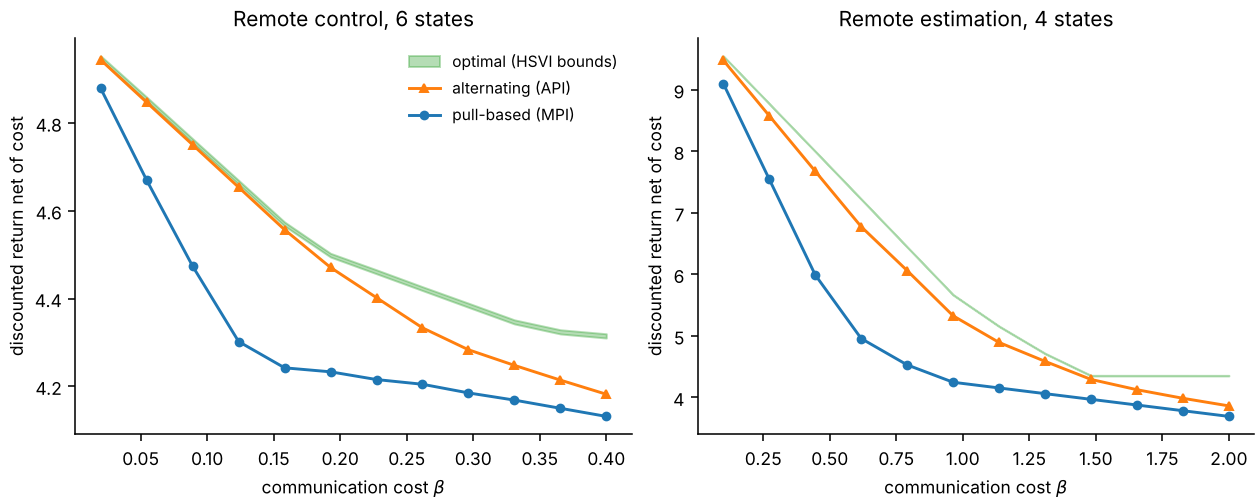
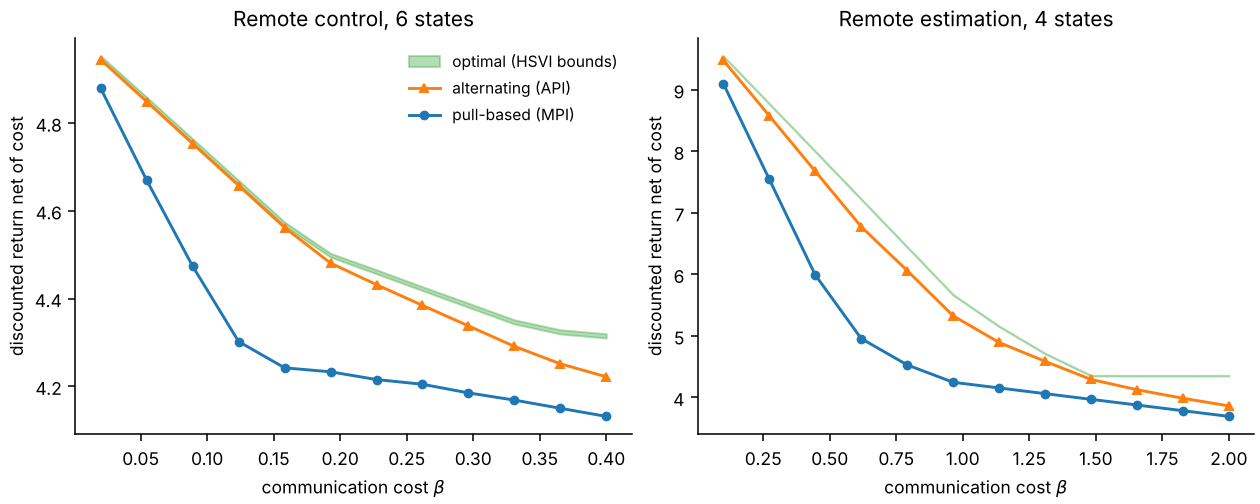
Make the alternating decoder step an exact best response in control
Against a fixed encoder the decoder's problem is an MDP over (delta, last
state) only when its actions do not move the process. In control the belief
depends on the actions taken since the last update, so greedy policy iteration
over (delta, last state) can stop at a worse policy. Search action sequences
exhaustively instead, keeping the greedy step as a fallback for large problems,
and check the best response against an independent exhaustive search.

Claude-Session: https://claude.ai/code/session_01Nqvqzyue5i7Uve9ngMVdXF

diff --git a/src/pragmatic_rc/push.py b/src/pragmatic_rc/push.py
@@ -110,9 +110,21 @@ def _improve_decoder(mdp: MDP, policy: PushPolicy, v0: np.ndarray, beta: float, 
     return new
 
 
-def decoder_best_response(
+MAX_EXACT_PLANS = 20_000
+
+
+def _dynamics_ignore_actions(mdp: MDP) -> bool:
+    return bool(np.allclose(mdp.P, mdp.P[:1]))
+
+
+def _decoder_best_response_local(
     mdp: MDP, pi_d: np.ndarray, c: np.ndarray, beta: float, t_max: int, max_iter: int = 500
 ) -> np.ndarray:
+    """Greedy policy iteration over ``(delta, last state)``.
+
+    Exact when the dynamics do not depend on the decoder's action (remote
+    estimation). Otherwise it can stop at a local optimum.
+    """
     pi_d = pi_d.copy()
     for _ in range(max_iter):
         policy = PushPolicy(pi_d, c)
@@ -122,6 +134,86 @@ def decoder_best_response(
             return pi_d
         pi_d = new
     raise RuntimeError("decoder best response did not converge")
+
+
+def _decoder_best_response_exact(
+    mdp: MDP, pi_d: np.ndarray, c: np.ndarray, beta: float, t_max: int, tol: float = 1e-12
+) -> np.ndarray:
+    """Exhaustive search over the decoder's action sequences after each update.
+
+    With a fixed encoder, what the decoder knows ``delta`` steps after receiving
+    ``l`` is fully determined by ``(delta, l)``, but its belief also depends on
+    the actions it took in between. The problem is therefore a search over
+    action sequences, not a Markov decision process on ``(delta, l)``. Sequences
+    are expanded as a tree so that shared prefixes are computed once; the cost
+    is ``A ** t_max`` sequences per last state.
+    """
+    S, A, g = mdp.n_states, mdp.n_actions, mdp.gamma
+    u = np.eye(S)[:, None, :]  # (l, sequences, x): unnormalised belief
+    gain = np.zeros((S, 1))  # reward minus transmission cost
+    mass = np.zeros((S, 1, S))  # discounted probability of the next renewal state
+    seqs = np.zeros((1, 0), dtype=int)
+    for k in range(t_max):
+        parts = []
+        for a in range(A):
+            moved = u @ mdp.P[a]
+            tx = moved * c[k + 1][:, None, :]
+            parts.append(
+                (
+                    gain + g**k * (u @ mdp.Rbar[a]) - beta * g ** (k + 1) * tx.sum(axis=2),
+                    mass + g ** (k + 1) * tx,
+                    moved * (1 - c[k + 1][:, None, :]),
+                    np.hstack([seqs, np.full((len(seqs), 1), a)]),
+                )
+            )
+        gain = np.concatenate([p[0] for p in parts], axis=1)
+        mass = np.concatenate([p[1] for p in parts], axis=1)
+        u = np.concatenate([p[2] for p in parts], axis=1)
+        seqs = np.concatenate([p[3] for p in parts], axis=0)
+
+    v = np.zeros(S)
+    while True:
+        new = (gain + mass @ v).max(axis=1)
+        if np.max(np.abs(new - v)) < tol:
+            break
+        v = new
+    q = gain + mass @ v  # (l, sequences)
+    weights = A ** np.arange(t_max)
+    old_index = (pi_d.T * weights).sum(axis=1)  # position of the current plan, a-major order
+    out = pi_d.copy()
+    for l in range(S):
+        if q[l, old_index[l]] >= q[l].max() - 1e-10:
+            continue  # keep the current plan on ties so that API terminates
+        out[:, l] = seqs[int(np.argmax(q[l]))]
+    return out
+
+
+def decoder_best_response(
+    mdp: MDP,
+    pi_d: np.ndarray,
+    c: np.ndarray,
+    beta: float,
+    t_max: int,
+    exact: bool | None = None,
+) -> np.ndarray:
+    """Optimal decoder policy against a fixed encoder.
+
+    ``exact=None`` picks automatically. When the dynamics do not depend on the
+    action (remote estimation) greedy policy iteration is exact. Otherwise the
+    best response requires searching action sequences, which is done
+    exhaustively while ``A ** t_max`` is at most ``MAX_EXACT_PLANS``. Beyond
+    that the greedy fallback is used and the result may be a local optimum.
+    """
+    if exact is None:
+        if _dynamics_ignore_actions(mdp):
+            exact = False
+        elif mdp.n_actions**t_max <= MAX_EXACT_PLANS:
+            exact = True
+        else:
+            exact = False  # local fallback, no guarantee
+    if exact:
+        return _decoder_best_response_exact(mdp, pi_d, c, beta, t_max)
+    return _decoder_best_response_local(mdp, pi_d, c, beta, t_max)
 
 
 def encoder_best_response(
@@ -164,13 +256,20 @@ def api(
     c_init: np.ndarray,
     rng: np.random.Generator | None = None,
     max_iter: int = 500,
+    exact: bool | None = None,
 ) -> tuple[PushPolicy, Evaluation]:
-    """Alternating policy iteration from an initial encoder policy."""
+    """Alternating policy iteration from an initial encoder policy.
+
+    The encoder step is exact. The decoder step is exact for remote estimation
+    and, for control, whenever ``A ** t_max`` is small enough to search action
+    sequences exhaustively (see :func:`decoder_best_response`). Where it is,
+    a fixed point is a Nash equilibrium.
+    """
     rng = rng or np.random.default_rng(0)
     pi_d = rng.integers(0, mdp.n_actions, size=(t_max, mdp.n_states))
     c = c_init.copy()
     for _ in range(max_iter):
-        new_pi_d = decoder_best_response(mdp, pi_d, c, beta, t_max)
+        new_pi_d = decoder_best_response(mdp, pi_d, c, beta, t_max, exact)
         new_c = encoder_best_response(mdp, new_pi_d, c, beta, t_max)
         if np.array_equal(new_pi_d, pi_d) and np.array_equal(new_c, c):
             policy = PushPolicy(pi_d, c)

diff --git a/tests/test_push.py b/tests/test_push.py
@@ -22,6 +22,71 @@ def test_evaluation_matches_simulation_with_informative_silence():
     assert abs(sim.tx - ev.tx.mean()) < 4 * sim.tx_se
 
 
+def exhaustive_decoder_value(mdp, c, beta, t_max):
+    """Independent reference: best decoder value against encoder ``c`` by trying every action sequence."""
+    from itertools import product
+
+    S, g = mdp.n_states, mdp.gamma
+    plans = []
+    for l in range(S):
+        entries = []
+        for seq in product(range(mdp.n_actions), repeat=t_max):
+            u = np.eye(S)[l]
+            gain, mass = 0.0, np.zeros(S)
+            for k, a in enumerate(seq):
+                gain += g**k * (u @ mdp.Rbar[a])
+                moved = u @ mdp.P[a]
+                sent = moved * c[k + 1, l]
+                gain -= beta * g ** (k + 1) * sent.sum()
+                mass += g ** (k + 1) * sent
+                u = moved * (1 - c[k + 1, l])
+            entries.append((gain, mass))
+        plans.append(entries)
+    v = np.zeros(S)
+    while True:
+        new = np.array([max(gain + mass @ v for gain, mass in plans[l]) for l in range(S)])
+        if np.max(np.abs(new - v)) < 1e-12:
+            return new
+        v = new
+
+
+@pytest.mark.parametrize("seed", range(12))
+def test_decoder_best_response_is_optimal_in_control(seed):
+    """In control the decoder's belief depends on its own action history, so greedy
+    policy iteration over (delta, last state) can fail; the exact search must not."""
+    mdp, beta, t_max = control_mdp(seed, n_states=4, density=0.4), 0.2, 4
+    rng = np.random.default_rng(seed)
+    c = rng.integers(0, 2, size=(t_max + 1, 4, 4))
+    c[0], c[t_max] = 0, 1
+    pi_d = push.decoder_best_response(mdp, rng.integers(0, 2, size=(t_max, 4)), c, beta, t_max)
+    achieved = push.evaluate(mdp, push.PushPolicy(pi_d, c), t_max).value(beta)
+    np.testing.assert_allclose(achieved, exhaustive_decoder_value(mdp, c, beta, t_max), atol=1e-8)
+
+
+def test_greedy_decoder_step_is_exact_only_without_action_dependence():
+    """Estimation: greedy equals exact. Control: it is allowed to be worse."""
+    est = random_estimation_mdp(4, 0.4, 0.9, np.random.default_rng(0))
+    rng, t_max, beta = np.random.default_rng(1), 3, 0.2
+    c = rng.integers(0, 2, size=(t_max + 1, 4, 4))
+    c[0], c[t_max] = 0, 1
+    start = rng.integers(0, 4, size=(t_max, 4))
+    greedy = push._decoder_best_response_local(est, start, c, beta, t_max)
+    value = push.evaluate(est, push.PushPolicy(greedy, c), t_max).value(beta)
+    np.testing.assert_allclose(value, exhaustive_decoder_value(est, c, beta, t_max), atol=1e-8)
+
+
+def test_greedy_api_can_miss_the_decoder_best_response_in_control():
+    """Regression for the control case: with greedy policy iteration over (delta, last state)
+    the decoder step is not a best response, and API ends in a worse fixed point."""
+    mdp, beta, t_max = control_mdp(12, n_states=4, density=0.4), 0.2, 4
+    start = push.always_transmit(t_max, 4)
+    greedy_policy, greedy = push.api(mdp, beta, t_max, start, exact=False)
+    exact_policy, exact = push.api(mdp, beta, t_max, start)
+    best_vs_greedy_encoder = exhaustive_decoder_value(mdp, greedy_policy.c, beta, t_max)
+    assert np.max(best_vs_greedy_encoder - greedy.value(beta)) > 0.05  # greedy is not a best response
+    assert exact.value(beta).mean() > greedy.value(beta).mean() + 0.01
+
+
 @pytest.mark.parametrize("init", ["never", "always"])
 def test_api_reaches_a_nash_equilibrium(init):
     mdp, beta, t_max = control_mdp(3), 0.2, 4
@@ -30,8 +95,8 @@ def test_api_reaches_a_nash_equilibrium(init):
     # Neither player can improve by deviating unilaterally.
     c_dev = push.encoder_best_response(mdp, policy.pi_d, policy.c, beta, t_max)
     assert push.evaluate(mdp, push.PushPolicy(policy.pi_d, c_dev), t_max).value(beta).mean() <= ev.value(beta).mean() + 1e-8
-    pi_dev = push.decoder_best_response(mdp, policy.pi_d, policy.c, beta, t_max)
-    assert push.evaluate(mdp, push.PushPolicy(pi_dev, policy.c), t_max).value(beta).mean() <= ev.value(beta).mean() + 1e-8
+    best = exhaustive_decoder_value(mdp, policy.c, beta, t_max)
+    assert np.all(best <= ev.value(beta) + 1e-8)
 
 
 def test_push_beats_pull_theorem_2():

diff --git a/README.md b/README.md
@@ -14,7 +14,7 @@ against exhaustive search, simulation and each other:
 
 | Method | Module | What it gives you |
 | --- | --- | --- |
-| **Alternating** policy iteration (API) | `pragmatic_rc.push` | A Nash equilibrium of the encoder/decoder game. Fast, not always optimal. |
+| **Alternating** policy iteration (API) | `pragmatic_rc.push` | A Nash equilibrium of the encoder/decoder game. Fast, not always optimal. The decoder step is an exact best response; in control that takes a search over action sequences. |
 | **Optimal** joint policy (HSVI on the coordinator POMDP) | `pragmatic_rc.optimal` | An ε-optimal value with a certified lower and upper bound, and the policy that achieves it. |
 | Pull-based modified policy iteration (MPI) | `pragmatic_rc.pull` | A policy for the case where only the decoder decides when to communicate. Reaches local optima, so use `restarts`. |
 
@@ -37,7 +37,7 @@ cost comes from the truncation described under *Limitations*.
 ```bash
 pip install -e ".[dev]"
 pytest                      # about 30 s
-python experiments/compare.py
+python experiments/compare.py   # about 10 min, dominated by the optimal solver
 ```
 
 ```python
@@ -86,6 +86,14 @@ of the policy.
   action sequence after each update and computing beliefs from it.
 * The alternating solver filters the belief with the encoder's current rule:
   silence removes the states in which the encoder would have transmitted.
+  Against a fixed encoder the decoder's best response is an MDP over
+  `(delta, last state)` **only in remote estimation**, where its actions do not
+  move the process. In control it is a search over action sequences, so
+  `push.decoder_best_response` enumerates them (exponential in `t_max`).
+  Greedy policy iteration over `(delta, last state)` is available as a
+  fallback for larger problems but can stop at a worse policy: on random
+  4-state control tasks it was not a best response in 3 of 40 runs, with a
+  decoder value up to 0.11 below the best.
 * The optimal solver works directly on the belief, so neither the delay nor
   the action history needs to be tracked separately.
 
@@ -137,8 +145,12 @@ alternating methods on 30-state problems:
 * **Analytic values against simulation.** Policy evaluation for the pull-based
   and alternating solvers is compared with a Monte Carlo simulation that never
   computes a belief, including a case where silence is informative.
+* **The decoder step is a best response.** Compared with an independent
+  exhaustive search over action sequences, in control and in estimation. A
+  regression test pins down a control case where the greedy step fails.
 * **Alternating policy iteration is an equilibrium.** Neither player can gain
-  by deviating, from both starting points.
+  by deviating, from both starting points, with the decoder's deviation
+  checked by exhaustive search.
 * **Optimal against everything else.** See above.
 * **Free channel.** With zero cost the optimal value equals full-information
   control.
@@ -154,6 +166,10 @@ alternating methods on 30-state problems:
 * **Alternating policy iteration is only an equilibrium.** From different
   starting points it can end in different equilibria; `push.never_transmit` and
   `push.always_transmit` give two natural ones.
+* **The exact decoder step has a size limit.** In control it searches
+  `A ** t_max` action sequences per last state. Beyond 20,000 it falls back to
+  the greedy step and the equilibrium guarantee no longer holds. Remote
+  estimation is unaffected, since the greedy step is exact there.
 * **Not a line-by-line port of the paper's algorithms.** The pull-based
   improvement step is my reading of the paper's MPI and reaches local optima.
   The benchmark MDP construction follows Sec. VI of the paper but its
@@ -175,7 +191,7 @@ src/pragmatic_rc/
     optimal.py    coordinator POMDP and HSVI, policy execution
     simulate.py   Monte Carlo simulators for the pull and push policies
 experiments/      scripts that regenerate every figure
-tests/            36 tests
+tests/            50 tests
 ```
 
 ## Citation
